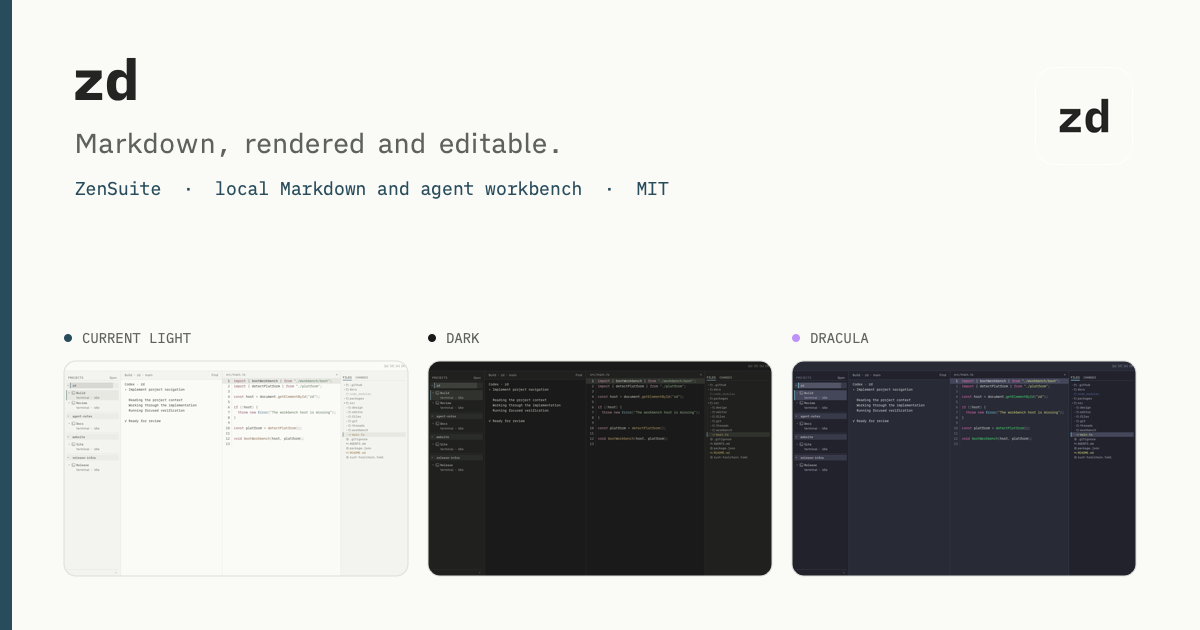
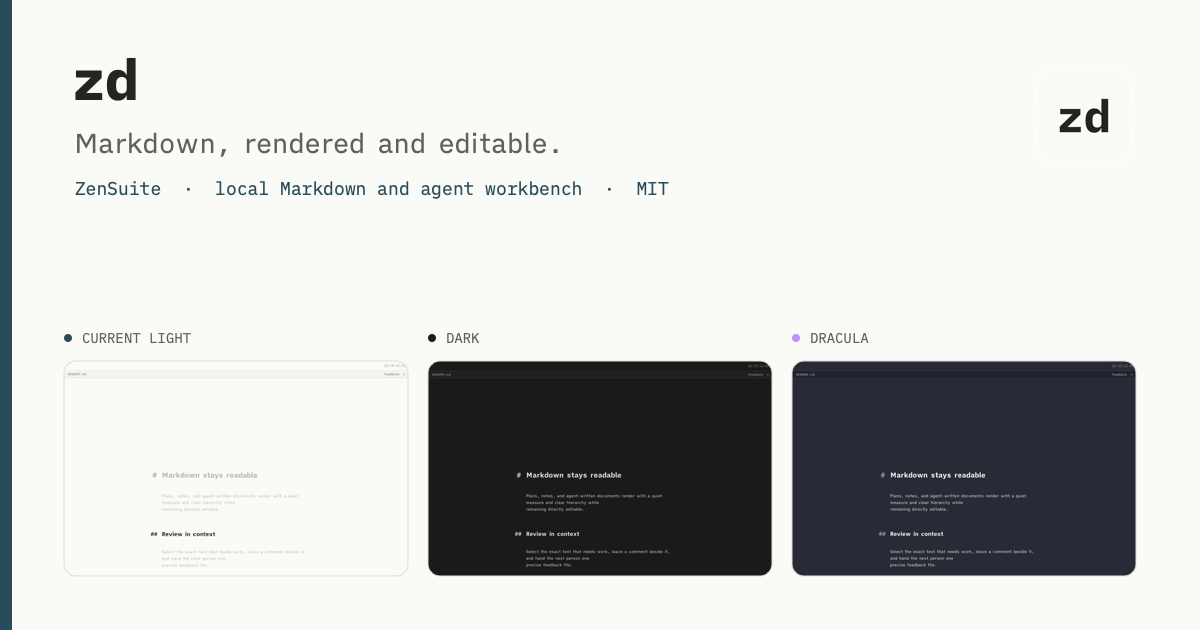
Capture focused Markdown reader

diff --git a/packages/scripts/tests/unit/release/promo/assets.test.ts b/packages/scripts/tests/unit/release/promo/assets.test.ts
@@ -11,6 +11,8 @@ const DARK = resolve(ROOT, "docs/user-facing-docs/assets/zd-workbench-dark.png")
 const DRACULA = resolve(ROOT, "docs/user-facing-docs/assets/zd-workbench-dracula.png");
 const SOCIAL_CARD = resolve(ROOT, "docs/user-facing-docs/assets/zd-social-card.png");
 const READER = resolve(ROOT, "docs/user-facing-docs/assets/zd-reader.jpeg");
+const READER_DARK = resolve(ROOT, "docs/user-facing-docs/assets/zd-reader-dark.png");
+const READER_DRACULA = resolve(ROOT, "docs/user-facing-docs/assets/zd-reader-dracula.png");
 const COMMENTS = resolve(ROOT, "docs/user-facing-docs/assets/zd-comments.png");
 
 function pngDimensions(path: string) {
@@ -49,11 +51,23 @@ describe("the workbench promotional kit", () => {
       resolve(ROOT, "packages/scripts/release/capture-workbench.mjs"),
       "utf8",
     );
+    const fixture = readFileSync(resolve(ROOT, "packages/app/src/workbench/fixture.ts"), "utf8");
 
     expect(existsSync(READER)).toBe(true);
+    expect(existsSync(READER_DARK)).toBe(true);
+    expect(existsSync(READER_DRACULA)).toBe(true);
     expect(existsSync(COMMENTS)).toBe(true);
     expect(capture).toContain("zd-reader.jpeg");
+    expect(capture).toContain("zd-reader-dark.png");
+    expect(capture).toContain("zd-reader-dracula.png");
+    expect(capture).toContain('name: "Show or hide Projects"');
+    expect(capture).toContain('name: "Show or hide Files and Changes"');
+    expect(capture).toContain("setFocusMode(true)");
+    expect(capture).toContain('data-focus-mode="true"');
+    expect(fixture).toContain("setFocusMode(enabled: boolean)");
     expect(capture).toContain("zd-comments.png");
+    expect(pngDimensions(READER_DARK)).toEqual({ width: 1440, height: 900 });
+    expect(pngDimensions(READER_DRACULA)).toEqual({ width: 1440, height: 900 });
     expect(pngDimensions(COMMENTS)).toEqual({ width: 1440, height: 900 });
   });
 
@@ -82,8 +96,8 @@ describe("the workbench promotional kit", () => {
     expect(existsSync(SOCIAL_CARD)).toBe(true);
     expect(pngDimensions(SOCIAL_CARD)).toEqual({ width: 1200, height: 630 });
     expect(manifest.scripts["promo:render"]).toContain("render-social-card.swift");
-    expect(manifest.scripts["promo:render"]).toContain("zd-workbench-dark.png");
-    expect(manifest.scripts["promo:render"]).toContain("zd-workbench-dracula.png");
+    expect(manifest.scripts["promo:render"]).toContain("zd-reader-dark.png");
+    expect(manifest.scripts["promo:render"]).toContain("zd-reader-dracula.png");
     expect(renderer).toContain("Markdown, rendered and editable.");
     expect(renderer).toContain('"CURRENT LIGHT"');
     expect(renderer).toContain('"DARK"');

diff --git a/packages/app/src/workbench/fixture.ts b/packages/app/src/workbench/fixture.ts
@@ -8,6 +8,7 @@ import type { TerminalOutputBatch, TerminalSessionHandle } from "@/terminal";
 import { bootWorkbench } from "./boot";
 import { mountWorkbenchFeatures } from "./features";
 import type { ProjectGrant } from "./resources";
+import { runCommandTarget } from "./shortcuts";
 import type { CentreMode } from "./state";
 
 const projects: readonly ProjectGrant[] = [
@@ -564,6 +565,19 @@ void bootWorkbench(host, platform, async (mountHost, context) => {
         centre: { ...regions.centre, mode, split: 0.46 },
         focus: "file",
       });
+    },
+    setFocusMode(enabled: boolean) {
+      const editor = document.querySelector<HTMLElement>(
+        '[data-centre-surface="file"]:not([hidden]) .md-editor',
+      );
+      if (!editor) throw new Error("The visible file surface has no Markdown editor");
+      if (editor.dataset.focusMode === String(enabled)) return;
+      if (!runCommandTarget("focus.toggle")) {
+        throw new Error("The visible Markdown editor did not accept Focus Mode");
+      }
+      if (editor.dataset.focusMode !== String(enabled)) {
+        throw new Error("The visible Markdown editor did not reach the requested Focus Mode state");
+      }
     },
     createFile(relativePath: string) {
       if (fileEntries.some((entry) => entry.relativePath === relativePath)) return;
